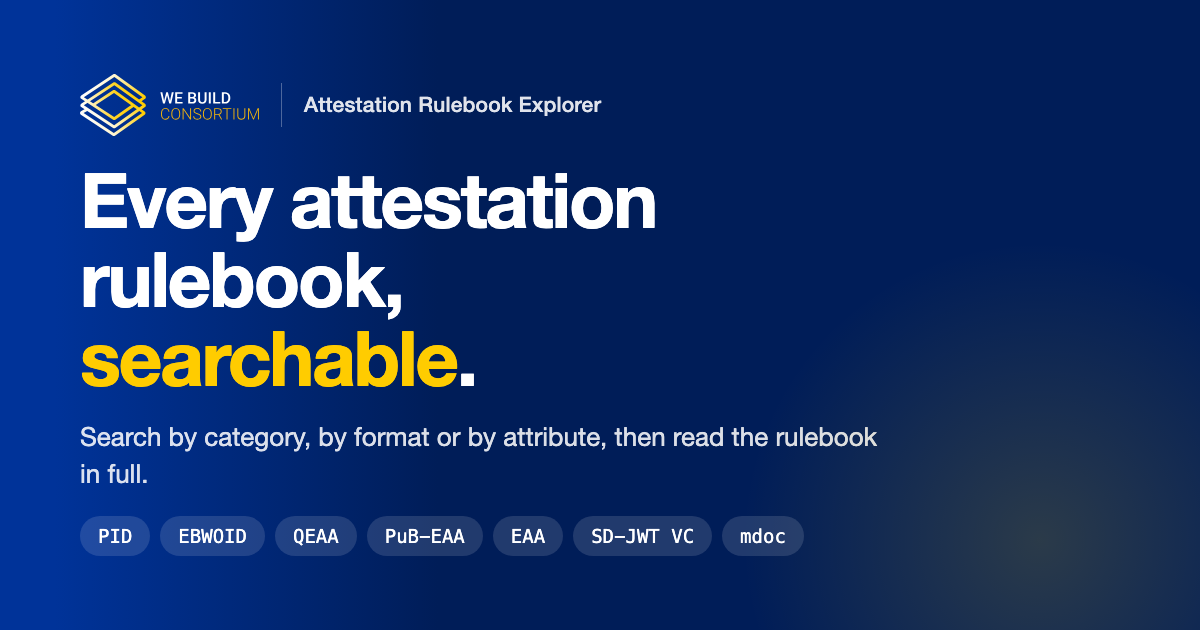
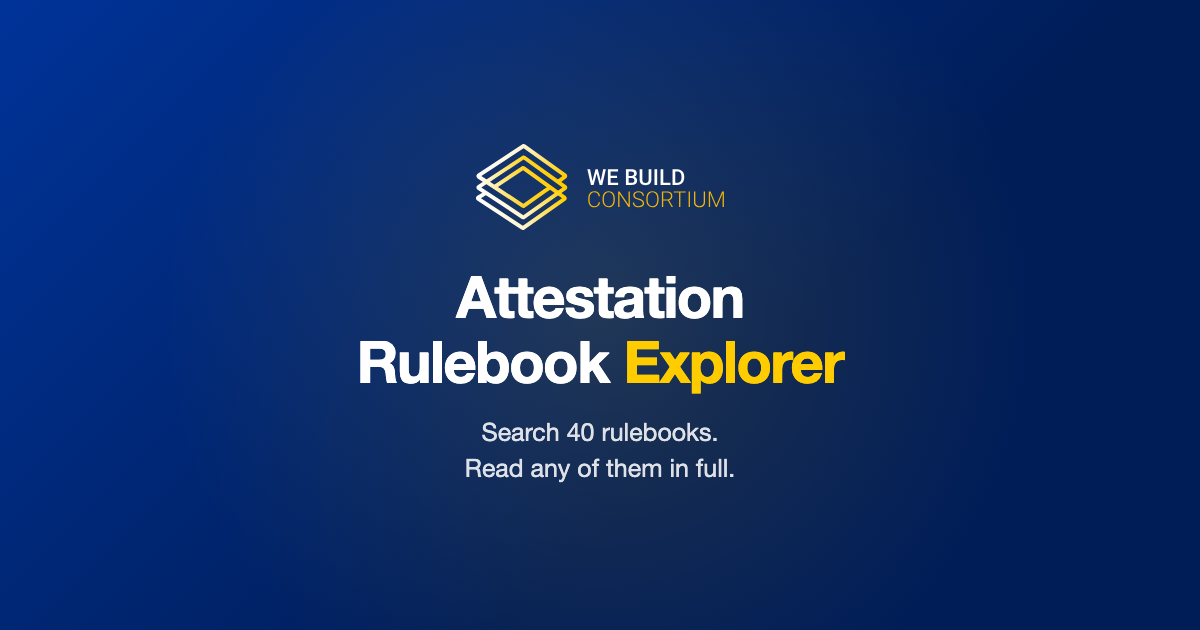
Explorer: a social card that survives a cropped preview
Slack renders a link preview as a small thumbnail cropped from the middle when
a message carries more than one link. The card was a left aligned headline with
chips along the bottom, so the crop showed a slice of a word. It is centred now,
with the logo and a short headline inside the middle square. The tags carry an
image type, a twitter image for readers that look for one, and a version on the
image URL so a cached preview refreshes.

diff --git a/explorer/scripts/og-card.html b/explorer/scripts/og-card.html
@@ -7,57 +7,39 @@
 <style>
   html, body { margin: 0; padding: 0; }
   body { width: 1200px; height: 630px; overflow: hidden; }
+  /* A link preview is often cropped to the middle square, so everything that
+     matters sits inside the centre and nothing hangs off an edge. */
   .card {
     width: 1200px; height: 630px; box-sizing: border-box;
-    background: linear-gradient(90deg, #003399 4.59%, #001d58 36.48%);
+    background: linear-gradient(135deg, #003399 0%, #001d58 62%);
     color: #fff; font-family: Inter, 'Helvetica Neue', Arial, sans-serif;
-    padding: 74px 80px; display: flex; flex-direction: column; justify-content: space-between;
-    position: relative; overflow: hidden;
+    display: flex; flex-direction: column; align-items: center; justify-content: center;
+    text-align: center; padding: 60px; position: relative; overflow: hidden;
   }
   .card::after {
-    content: ""; position: absolute; right: -150px; bottom: -220px;
-    width: 620px; height: 620px; border-radius: 50%;
-    background: radial-gradient(circle, rgba(255,204,0,.17), rgba(255,204,0,0) 68%);
+    content: ""; position: absolute; left: 50%; top: 50%;
+    width: 1000px; height: 1000px; transform: translate(-50%, -50%);
+    background: radial-gradient(circle, rgba(255,204,0,.13), rgba(255,204,0,0) 62%);
   }
-  .top { display: flex; align-items: center; gap: 22px; }
-  .top img { height: 62px; display: block; }
-  .rule { width: 1px; height: 44px; background: rgba(255,255,255,.3); }
-  .eyebrow {
-    font-size: 21px; font-weight: 500; letter-spacing: .01em; color: rgba(255,255,255,.88);
-  }
+  .inner { position: relative; z-index: 1; width: 620px; }
+  img { height: 86px; display: block; margin: 0 auto 34px; }
   h1 {
-    margin: 0; font-size: 76px; line-height: 1.04; font-weight: 700;
-    letter-spacing: -.028em; max-width: 880px;
+    margin: 0; font-size: 58px; line-height: 1.12; font-weight: 700;
+    letter-spacing: -.026em;
   }
   h1 .accent { color: #ffcc00; }
-  p { margin: 22px 0 0; font-size: 26px; line-height: 1.4; color: rgba(255,255,255,.86); max-width: 820px; }
-  .chips { display: flex; gap: 10px; flex-wrap: wrap; position: relative; z-index: 1; }
-  .chip {
-    font-family: 'JetBrains Mono', monospace; font-size: 19px;
-    padding: 9px 18px; border-radius: 980px;
-    background: rgba(255,255,255,.13); color: #fff;
+  p {
+    margin: 20px 0 0; font-size: 25px; line-height: 1.45;
+    color: rgba(255,255,255,.86);
   }
 </style>
 </head>
 <body>
 <div class="card">
-  <div class="top">
+  <div class="inner">
     <img src="../assets/logo.svg" alt="">
-    <span class="rule"></span>
-    <span class="eyebrow">Attestation Rulebook Explorer</span>
-  </div>
-  <div>
-    <h1>Every attestation rulebook,<br><span class="accent">searchable</span>.</h1>
-    <p>Search by category, by format or by attribute, then read the rulebook in full.</p>
-  </div>
-  <div class="chips">
-    <span class="chip">PID</span>
-    <span class="chip">EBWOID</span>
-    <span class="chip">QEAA</span>
-    <span class="chip">PuB-EAA</span>
-    <span class="chip">EAA</span>
-    <span class="chip">SD-JWT VC</span>
-    <span class="chip">mdoc</span>
+    <h1>Attestation<br>Rulebook <span class="accent">Explorer</span></h1>
+    <p>Search 40 rulebooks.<br>Read any of them in full.</p>
   </div>
 </div>
 </body>

diff --git a/explorer/rulebooks/rb-ebwoid.html b/explorer/rulebooks/rb-ebwoid.html
@@ -11,11 +11,13 @@
 <meta property="og:title" content="EBWOID (European Business Wallet, Owner Identification Data) rulebook">
 <meta property="og:description" content="EBWOID (European Business Wallet, Owner Identification Data). An attestation rulebook, EBWOID, issued as SD-JWT VC, 2 attributes.">
 <meta property="og:url" content="https://webuild-consortium.github.io/webuild-attestation-rulebooks-catalog/rulebooks/rb-ebwoid.html">
-<meta property="og:image" content="https://webuild-consortium.github.io/webuild-attestation-rulebooks-catalog/assets/og.png">
+<meta property="og:image" content="https://webuild-consortium.github.io/webuild-attestation-rulebooks-catalog/assets/og.png?v=2">
+<meta property="og:image:type" content="image/png">
 <meta property="og:image:width" content="1200">
 <meta property="og:image:height" content="630">
 <meta property="og:image:alt" content="WE BUILD Attestation Rulebook Explorer">
 <meta name="twitter:card" content="summary_large_image">
+<meta name="twitter:image" content="https://webuild-consortium.github.io/webuild-attestation-rulebooks-catalog/assets/og.png?v=2">
 <meta name="theme-color" content="#003399">
 <link rel="icon" href="../assets/favicon.svg">
 <link rel="stylesheet" href="../assets/style.css">

diff --git a/explorer/rulebooks/rb-residence.html b/explorer/rulebooks/rb-residence.html
@@ -11,11 +11,13 @@
 <meta property="og:title" content="Certificate of Residence (CoR) rulebook">
 <meta property="og:description" content="Certificate of Residence (CoR). An attestation rulebook, QEAA and PuB-EAA and EAA, issued as SD-JWT VC or mdoc, 14 attributes.">
 <meta property="og:url" content="https://webuild-consortium.github.io/webuild-attestation-rulebooks-catalog/rulebooks/rb-residence.html">
-<meta property="og:image" content="https://webuild-consortium.github.io/webuild-attestation-rulebooks-catalog/assets/og.png">
+<meta property="og:image" content="https://webuild-consortium.github.io/webuild-attestation-rulebooks-catalog/assets/og.png?v=2">
+<meta property="og:image:type" content="image/png">
 <meta property="og:image:width" content="1200">
 <meta property="og:image:height" content="630">
 <meta property="og:image:alt" content="WE BUILD Attestation Rulebook Explorer">
 <meta name="twitter:card" content="summary_large_image">
+<meta name="twitter:image" content="https://webuild-consortium.github.io/webuild-attestation-rulebooks-catalog/assets/og.png?v=2">
 <meta name="theme-color" content="#003399">
 <link rel="icon" href="../assets/favicon.svg">
 <link rel="stylesheet" href="../assets/style.css">

diff --git a/explorer/rulebooks/rb-social-security-contribution.html b/explorer/rulebooks/rb-social-security-contribution.html
@@ -11,11 +11,13 @@
 <meta property="og:title" content="Social Security Contribution rulebook">
 <meta property="og:description" content="Social Security Contribution. An attestation rulebook, EAA, issued as SD-JWT VC or mdoc, 31 attributes.">
 <meta property="og:url" content="https://webuild-consortium.github.io/webuild-attestation-rulebooks-catalog/rulebooks/rb-social-security-contribution.html">
-<meta property="og:image" content="https://webuild-consortium.github.io/webuild-attestation-rulebooks-catalog/assets/og.png">
+<meta property="og:image" content="https://webuild-consortium.github.io/webuild-attestation-rulebooks-catalog/assets/og.png?v=2">
+<meta property="og:image:type" content="image/png">
 <meta property="og:image:width" content="1200">
 <meta property="og:image:height" content="630">
 <meta property="og:image:alt" content="WE BUILD Attestation Rulebook Explorer">
 <meta name="twitter:card" content="summary_large_image">
+<meta name="twitter:image" content="https://webuild-consortium.github.io/webuild-attestation-rulebooks-catalog/assets/og.png?v=2">
 <meta name="theme-color" content="#003399">
 <link rel="icon" href="../assets/favicon.svg">
 <link rel="stylesheet" href="../assets/style.css">

diff --git a/explorer/rulebooks/rb-authorized-service-provider.html b/explorer/rulebooks/rb-authorized-service-provider.html
@@ -11,11 +11,13 @@
 <meta property="og:title" content="Authorized Service Provider rulebook">
 <meta property="og:description" content="Authorized Service Provider. An attestation rulebook, EAA, issued as SD-JWT VC or mdoc, 11 attributes.">
 <meta property="og:url" content="https://webuild-consortium.github.io/webuild-attestation-rulebooks-catalog/rulebooks/rb-authorized-service-provider.html">
-<meta property="og:image" content="https://webuild-consortium.github.io/webuild-attestation-rulebooks-catalog/assets/og.png">
+<meta property="og:image" content="https://webuild-consortium.github.io/webuild-attestation-rulebooks-catalog/assets/og.png?v=2">
+<meta property="og:image:type" content="image/png">
 <meta property="og:image:width" content="1200">
 <meta property="og:image:height" content="630">
 <meta property="og:image:alt" content="WE BUILD Attestation Rulebook Explorer">
 <meta name="twitter:card" content="summary_large_image">
+<meta name="twitter:image" content="https://webuild-consortium.github.io/webuild-attestation-rulebooks-catalog/assets/og.png?v=2">
 <meta name="theme-color" content="#003399">
 <link rel="icon" href="../assets/favicon.svg">
 <link rel="stylesheet" href="../assets/style.css">

diff --git a/explorer/rulebooks/rb-eu-poa.html b/explorer/rulebooks/rb-eu-poa.html
@@ -11,11 +11,13 @@
 <meta property="og:title" content="EU Power of Attorney (EU PoA) rulebook">
 <meta property="og:description" content="EU Power of Attorney (EU PoA). An attestation rulebook, QEAA and PuB-EAA and EAA, issued as SD-JWT VC, 28 attributes.">
 <meta property="og:url" content="https://webuild-consortium.github.io/webuild-attestation-rulebooks-catalog/rulebooks/rb-eu-poa.html">
-<meta property="og:image" content="https://webuild-consortium.github.io/webuild-attestation-rulebooks-catalog/assets/og.png">
+<meta property="og:image" content="https://webuild-consortium.github.io/webuild-attestation-rulebooks-catalog/assets/og.png?v=2">
+<meta property="og:image:type" content="image/png">
 <meta property="og:image:width" content="1200">
 <meta property="og:image:height" content="630">
 <meta property="og:image:alt" content="WE BUILD Attestation Rulebook Explorer">
 <meta name="twitter:card" content="summary_large_image">
+<meta name="twitter:image" content="https://webuild-consortium.github.io/webuild-attestation-rulebooks-catalog/assets/og.png?v=2">
 <meta name="theme-color" content="#003399">
 <link rel="icon" href="../assets/favicon.svg">
 <link rel="stylesheet" href="../assets/style.css">

diff --git a/explorer/rulebooks/rb-poa-pox.html b/explorer/rulebooks/rb-poa-pox.html
@@ -11,11 +11,13 @@
 <meta property="og:title" content="Power of Attorney and Proof of Existence rulebook">
 <meta property="og:description" content="Power of Attorney and Proof of Existence. An attestation rulebook, EAA, issued as mdoc, 59 attributes.">
 <meta property="og:url" content="https://webuild-consortium.github.io/webuild-attestation-rulebooks-catalog/rulebooks/rb-poa-pox.html">
-<meta property="og:image" content="https://webuild-consortium.github.io/webuild-attestation-rulebooks-catalog/assets/og.png">
+<meta property="og:image" content="https://webuild-consortium.github.io/webuild-attestation-rulebooks-catalog/assets/og.png?v=2">
+<meta property="og:image:type" content="image/png">
 <meta property="og:image:width" content="1200">
 <meta property="og:image:height" content="630">
 <meta property="og:image:alt" content="WE BUILD Attestation Rulebook Explorer">
 <meta name="twitter:card" content="summary_large_image">
+<meta name="twitter:image" content="https://webuild-consortium.github.io/webuild-attestation-rulebooks-catalog/assets/og.png?v=2">
 <meta name="theme-color" content="#003399">
 <link rel="icon" href="../assets/favicon.svg">
 <link rel="stylesheet" href="../assets/style.css">

diff --git a/explorer/rulebooks/rb-pid.html b/explorer/rulebooks/rb-pid.html
@@ -11,11 +11,13 @@
 <meta property="og:title" content="Personal Identification Data (PID) rulebook">
 <meta property="og:description" content="Personal Identification Data (PID). An attestation rulebook, PID, issued as SD-JWT VC or mdoc, 22 attributes.">
 <meta property="og:url" content="https://webuild-consortium.github.io/webuild-attestation-rulebooks-catalog/rulebooks/rb-pid.html">
-<meta property="og:image" content="https://webuild-consortium.github.io/webuild-attestation-rulebooks-catalog/assets/og.png">
+<meta property="og:image" content="https://webuild-consortium.github.io/webuild-attestation-rulebooks-catalog/assets/og.png?v=2">
+<meta property="og:image:type" content="image/png">
 <meta property="og:image:width" content="1200">
 <meta property="og:image:height" content="630">
 <meta property="og:image:alt" content="WE BUILD Attestation Rulebook Explorer">
 <meta name="twitter:card" content="summary_large_image">
+<meta name="twitter:image" content="https://webuild-consortium.github.io/webuild-attestation-rulebooks-catalog/assets/og.png?v=2">
 <meta name="theme-color" content="#003399">
 <link rel="icon" href="../assets/favicon.svg">
 <link rel="stylesheet" href="../assets/style.css">

diff --git a/explorer/rulebooks/rb-ubo.html b/explorer/rulebooks/rb-ubo.html
@@ -11,11 +11,13 @@
 <meta property="og:title" content="Ultimate Beneficial Owner (UBO) rulebook">
 <meta property="og:description" content="Ultimate Beneficial Owner (UBO). An attestation rulebook, QEAA and S-EAA, issued as SD-JWT VC, 30 attributes.">
 <meta property="og:url" content="https://webuild-consortium.github.io/webuild-attestation-rulebooks-catalog/rulebooks/rb-ubo.html">
-<meta property="og:image" content="https://webuild-consortium.github.io/webuild-attestation-rulebooks-catalog/assets/og.png">
+<meta property="og:image" content="https://webuild-consortium.github.io/webuild-attestation-rulebooks-catalog/assets/og.png?v=2">
+<meta property="og:image:type" content="image/png">
 <meta property="og:image:width" content="1200">
 <meta property="og:image:height" content="630">
 <meta property="og:image:alt" content="WE BUILD Attestation Rulebook Explorer">
 <meta name="twitter:card" content="summary_large_image">
+<meta name="twitter:image" content="https://webuild-consortium.github.io/webuild-attestation-rulebooks-catalog/assets/og.png?v=2">
 <meta name="theme-color" content="#003399">
 <link rel="icon" href="../assets/favicon.svg">
 <link rel="stylesheet" href="../assets/style.css">

diff --git a/explorer/rulebooks/rb-ds-membership.html b/explorer/rulebooks/rb-ds-membership.html
@@ -11,11 +11,13 @@
 <meta property="og:title" content="Membership Credential rulebook">
 <meta property="og:description" content="Membership Credential. An attestation rulebook, EAA, issued as SD-JWT VC or W3C VCDM, 17 attributes.">
 <meta property="og:url" content="https://webuild-consortium.github.io/webuild-attestation-rulebooks-catalog/rulebooks/rb-ds-membership.html">
-<meta property="og:image" content="https://webuild-consortium.github.io/webuild-attestation-rulebooks-catalog/assets/og.png">
+<meta property="og:image" content="https://webuild-consortium.github.io/webuild-attestation-rulebooks-catalog/assets/og.png?v=2">
+<meta property="og:image:type" content="image/png">
 <meta property="og:image:width" content="1200">
 <meta property="og:image:height" content="630">
 <meta property="og:image:alt" content="WE BUILD Attestation Rulebook Explorer">
 <meta name="twitter:card" content="summary_large_image">
+<meta name="twitter:image" content="https://webuild-consortium.github.io/webuild-attestation-rulebooks-catalog/assets/og.png?v=2">
 <meta name="theme-color" content="#003399">
 <link rel="icon" href="../assets/favicon.svg">
 <link rel="stylesheet" href="../assets/style.css">

diff --git a/explorer/rulebooks/rb-authorised-signatories.html b/explorer/rulebooks/rb-authorised-signatories.html
@@ -11,11 +11,13 @@
 <meta property="og:title" content="Authorised Signatories rulebook">
 <meta property="og:description" content="Authorised Signatories. An attestation rulebook, EAA, issued as SD-JWT VC, 25 attributes.">
 <meta property="og:url" content="https://webuild-consortium.github.io/webuild-attestation-rulebooks-catalog/rulebooks/rb-authorised-signatories.html">
-<meta property="og:image" content="https://webuild-consortium.github.io/webuild-attestation-rulebooks-catalog/assets/og.png">
+<meta property="og:image" content="https://webuild-consortium.github.io/webuild-attestation-rulebooks-catalog/assets/og.png?v=2">
+<meta property="og:image:type" content="image/png">
 <meta property="og:image:width" content="1200">
 <meta property="og:image:height" content="630">
 <meta property="og:image:alt" content="WE BUILD Attestation Rulebook Explorer">
 <meta name="twitter:card" content="summary_large_image">
+<meta name="twitter:image" content="https://webuild-consortium.github.io/webuild-attestation-rulebooks-catalog/assets/og.png?v=2">
 <meta name="theme-color" content="#003399">
 <link rel="icon" href="../assets/favicon.svg">
 <link rel="stylesheet" href="../assets/style.css">

diff --git a/explorer/rulebooks/rb-eucc.html b/explorer/rulebooks/rb-eucc.html
@@ -11,11 +11,13 @@
 <meta property="og:title" content="EU Company Certificate (EUCC) rulebook">
 <meta property="og:description" content="EU Company Certificate (EUCC). An attestation rulebook, PuB-EAA, issued as SD-JWT VC, 8 attributes.">
 <meta property="og:url" content="https://webuild-consortium.github.io/webuild-attestation-rulebooks-catalog/rulebooks/rb-eucc.html">
-<meta property="og:image" content="https://webuild-consortium.github.io/webuild-attestation-rulebooks-catalog/assets/og.png">
+<meta property="og:image" content="https://webuild-consortium.github.io/webuild-attestation-rulebooks-catalog/assets/og.png?v=2">
+<meta property="og:image:type" content="image/png">
 <meta property="og:image:width" content="1200">
 <meta property="og:image:height" content="630">
 <meta property="og:image:alt" content="WE BUILD Attestation Rulebook Explorer">
 <meta name="twitter:card" content="summary_large_image">
+<meta name="twitter:image" content="https://webuild-consortium.github.io/webuild-attestation-rulebooks-catalog/assets/og.png?v=2">
 <meta name="theme-color" content="#003399">
 <link rel="icon" href="../assets/favicon.svg">
 <link rel="stylesheet" href="../assets/style.css">
